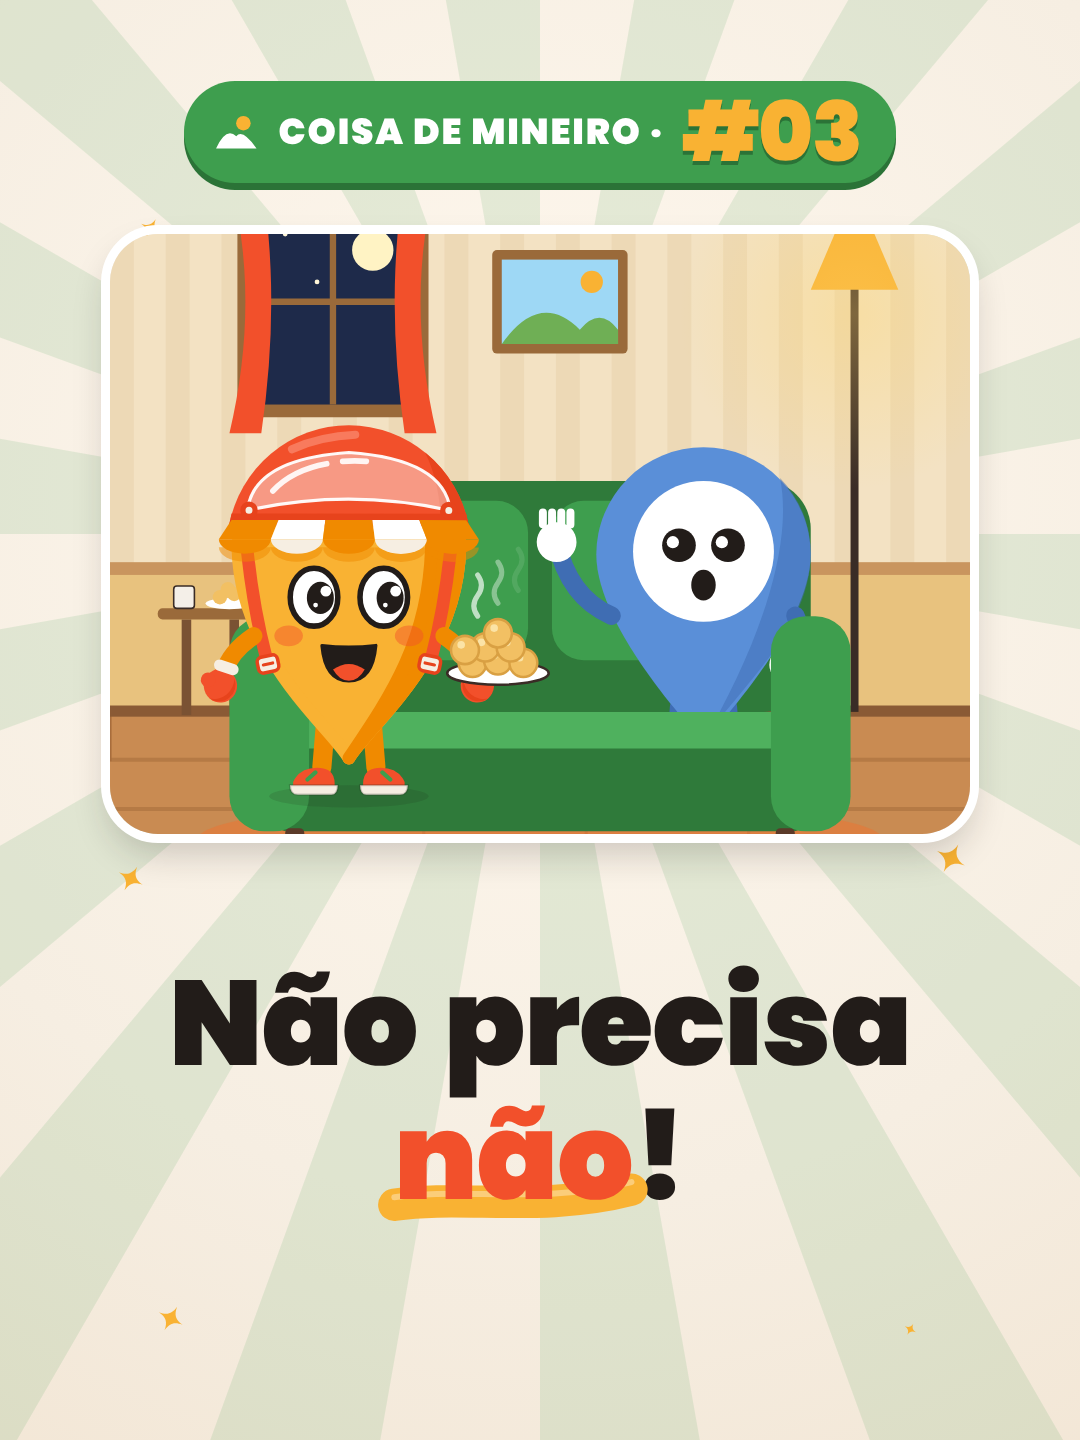
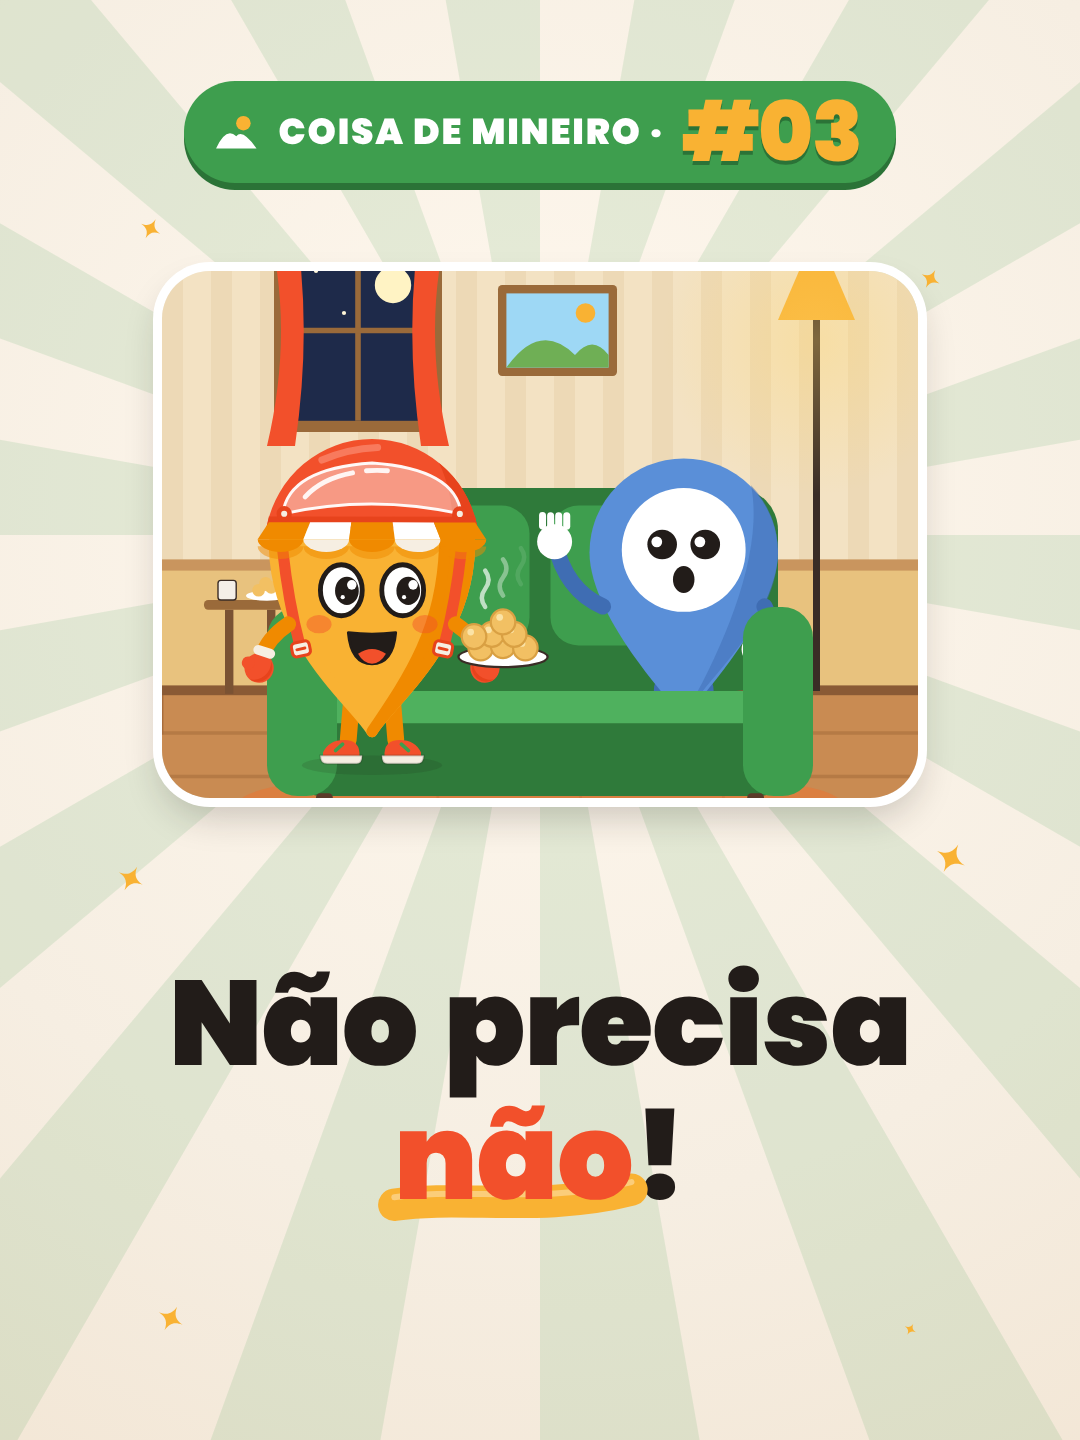
Coisa de mineiro: capas que valem na grade e na aba Reels
- Quadro da capa com 756 de largura (x 162–918), a mesma das ilustrações das
  outras capas: na aba Reels o Instagram amplia a capa 3:4 e corta 135 px de
  cada lado, e o quadro de 860 saía cortado lá.
- Nova capa-editar-9x16.png (composição CoisaDeMineiro-CapaEditar) para trocar
  a capa de um Reel já publicado: no Editar capa o Instagram usa a imagem
  inteira na aba Reels e o recorte 3:4 de cima na grade; a capa sobe 240 px e a
  faixa de baixo leva a logo + @uaipertim.

Claude-Session: https://claude.ai/code/session_01Jv7u38hENwcf18mZUqqYYa

Changed region(s): [[0.0917, 0.1562, 0.9167, 0.5938]]

diff --git a/src/coisa-de-mineiro/CoisaDeMineiro.tsx b/src/coisa-de-mineiro/CoisaDeMineiro.tsx
@@ -1249,7 +1249,12 @@ const Montagem: React.FC<CoisaDeMineiroProps> = ({ dados }) => {
 // MINEIRO · #NN", no formato do selo com número das outras capas, na pílula verde da série), a ilustração no meio (a cena
 // do episódio num quadro de cantos arredondados) e o título embaixo, na mesma letra, tamanho e entrelinha das outras
 // (tinta + a palavra-chave em CORAL com o marcador amarelo). Tudo dentro do recorte 3:4 da grade (y 300–1620, x 110–970).
-const CAPA = { seloY: 372, quadro: { x: 110, y: 474, w: 860, h: 600 }, titulo: { cy: 1330, maxH: 470, maxW: 820, sizes: [170, 156, 144, 132, 120, 110, 100, 92, 84] } };
+// O quadro tem 756 de largura (x 162–918), a mesma das ilustrações das outras capas (CapaReel: ILU 756): na aba Reels
+// o Instagram amplia a capa 3:4 para 9:16 e corta 135 px de cada lado; com 860 de largura o quadro saía com as laterais
+// cortadas lá. Variante "editar" (Reel já publicado, capa trocada no "Editar capa"): o Instagram usa a imagem inteira
+// como capa 9:16 na aba Reels e, na grade, o recorte 3:4 de CIMA; então a capa sobe 240 px (o recorte de cima é a capa
+// 3:4 inteira) e a faixa de baixo ganha a logo + @uaipertim.
+const CAPA = { seloY: 372, quadro: { x: 162, y: 511, w: 756, h: 527 }, titulo: { cy: 1330, maxH: 470, maxW: 820, sizes: [170, 156, 144, 132, 120, 110, 100, 92, 84] } };
 // de que altura da cena (1080 de largura, do quadro 1080 × 1920 da cena da capa) sai o recorte que vai para o quadro
 const CENA_Y: Record<string, number> = { campo: 812, portao: 788, sala: 780 };
 export const medeCapaCoisaDeMineiro = (titulo: string[]) => {
@@ -1270,23 +1275,30 @@ const SeloCoisaDeMineiro: React.FC<{ numero: number }> = ({ numero }) => {
   );
 };
 const TWINK_CAPA: Array<[number, number]> = [[150, 470], [930, 520], [130, 1120], [950, 1100], [170, 1560], [910, 1570]];
-export const CapaCoisaDeMineiro: React.FC<CoisaDeMineiroProps & { tituloCapa?: Wrapped }> = ({ dados, tituloCapa }) => {
+export const CapaCoisaDeMineiro: React.FC<CoisaDeMineiroProps & { tituloCapa?: Wrapped; editar?: boolean }> = ({ dados, tituloCapa, editar }) => {
   if (!dados || !tituloCapa) throw new Error("CapaCoisaDeMineiro: os dados e o título são lidos/medidos no calculateMetadata");
   const Q = CAPA.quadro, k = Q.w / 1080, y0 = CENA_Y[dados.capa?.cena ?? "campo"] ?? 760;
   const th = tituloCapa.lines.length * tituloCapa.size * 1.12;
+  const dy = editar ? -240 : 0;
   return (
-    <AbsoluteFill style={{ background: `radial-gradient(circle at 50% 38%, #FFF8EE 0%, ${C.creme} 55%, #F1E3D0 100%)`, overflow: "hidden" }}>
-      <Sunburst frame={0} cx={540} cy={Q.y + Q.h / 2} color={VERDE} opacity={0.12} />
-      <Twinkles frame={14} seed={`capa-cm-${dados.ep}`} points={TWINK_CAPA} size={34} />
-      <div style={{ position: "absolute", top: CAPA.seloY - 60, left: 0, right: 0, height: 120, display: "flex", justifyContent: "center", alignItems: "center" }}>
+    <AbsoluteFill style={{ background: `radial-gradient(circle at 50% ${editar ? 30 : 38}%, #FFF8EE 0%, ${C.creme} 55%, #F1E3D0 100%)`, overflow: "hidden" }}>
+      <Sunburst frame={0} cx={540} cy={Q.y + Q.h / 2 + dy} color={VERDE} opacity={0.12} />
+      <Twinkles frame={14} seed={`capa-cm-${dados.ep}`} points={TWINK_CAPA.map(([x, y]) => [x, y + dy] as [number, number])} size={34} />
+      {editar ? (
+        <div style={{ position: "absolute", top: 1620, left: 0, right: 0, display: "flex", justifyContent: "center", alignItems: "center", gap: 22 }}>
+          <Img src={staticFile("img/uaipertim_logo.png")} style={{ width: 132, height: 132, borderRadius: "50%", boxShadow: "0 8px 18px rgba(34,28,25,0.20)" }} />
+          <span style={{ fontFamily: FONT, fontWeight: W.black, fontSize: 52, color: C.tinta ?? "#221C19", letterSpacing: -0.5 }}>@uaipertim</span>
+        </div>
+      ) : null}
+      <div style={{ position: "absolute", top: CAPA.seloY - 60 + dy, left: 0, right: 0, height: 120, display: "flex", justifyContent: "center", alignItems: "center" }}>
         <SeloCoisaDeMineiro numero={dados.numero} />
       </div>
-      <div style={{ position: "absolute", left: Q.x, top: Q.y, width: Q.w, height: Q.h, borderRadius: 48, overflow: "hidden", boxShadow: "0 0 0 9px #fff, 0 18px 36px rgba(34,28,25,0.22)" }}>
+      <div style={{ position: "absolute", left: Q.x, top: Q.y + dy, width: Q.w, height: Q.h, borderRadius: 48, overflow: "hidden", boxShadow: "0 0 0 9px #fff, 0 18px 36px rgba(34,28,25,0.22)" }}>
         <div style={{ position: "absolute", left: 0, top: -y0 * k, width: 1080, height: 1920, transform: `scale(${k})`, transformOrigin: "0 0" }}>
           <CenaCapa dados={dados} />
         </div>
       </div>
-      <div style={{ position: "absolute", top: CAPA.titulo.cy - th / 2, left: 110, right: 110 }}>
+      <div style={{ position: "absolute", top: CAPA.titulo.cy - th / 2 + dy, left: 110, right: 110 }}>
         <Text source={(dados.capa?.titulo ?? [dados.titulo]).join(" ")} wrapped={tituloCapa} weight={W.black} />
       </div>
     </AbsoluteFill>

diff --git a/src/Root.tsx b/src/Root.tsx
@@ -256,6 +256,8 @@ export const RemotionRoot: React.FC = () => (
       defaultProps={{ ep: "01-e-logo-ali" } as CoisaDeMineiroProps} calculateMetadata={async (a) => { await fontsReady; return carregaEpisodio(a); }} />
     <Still id="CoisaDeMineiro-Capa" component={CapaCoisaDeMineiro} width={1080} height={1920}
       defaultProps={{ ep: "01-e-logo-ali" } as CoisaDeMineiroProps} calculateMetadata={async (a) => { await fontsReady; const r = await carregaEpisodio(a); const d = r.props.dados!; return { props: { ...r.props, tituloCapa: medeCapaCoisaDeMineiro(d.capa?.titulo ?? [d.titulo]) } }; }} />
+    <Still id="CoisaDeMineiro-CapaEditar" component={CapaCoisaDeMineiro} width={1080} height={1920}
+      defaultProps={{ ep: "01-e-logo-ali", editar: true } as CoisaDeMineiroProps & { editar: boolean }} calculateMetadata={async (a) => { await fontsReady; const r = await carregaEpisodio(a); const d = r.props.dados!; return { props: { ...r.props, editar: true, tituloCapa: medeCapaCoisaDeMineiro(d.capa?.titulo ?? [d.titulo]) } }; }} />
     <Still id="Destaque-Capa" component={DestaqueCapa} width={1080} height={1920} defaultProps={{ icone: "conheca" as const }} />
   </>
 );
